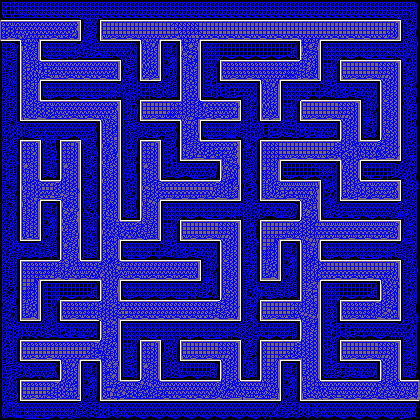
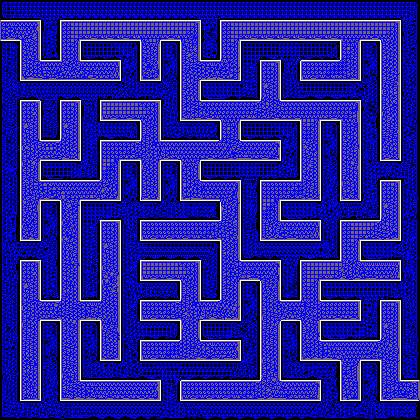
improved gui

diff --git a/maze_gui/src/styles/try.css b/maze_gui/src/styles/try.css
@@ -1,8 +1,14 @@
+.label{
+	
+}
 
 
 .root{
+	-fx-padding:10px;
 	-fx-background-color:peachpuff;
 	-fx-alignment : center;
+	-fx-spacing: 15px;
+	
 }
 
 .button {
